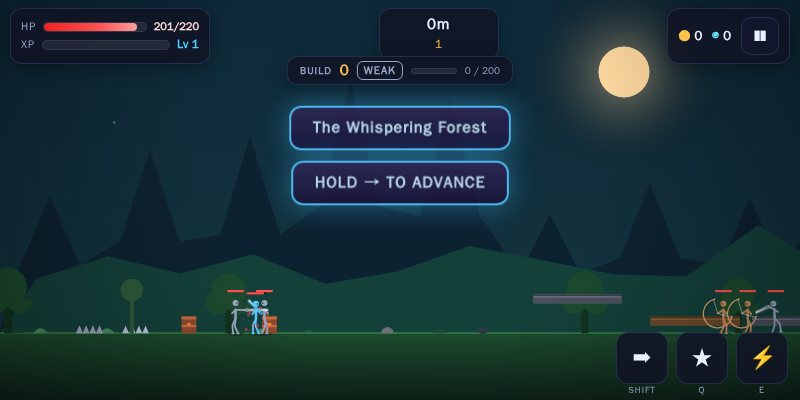
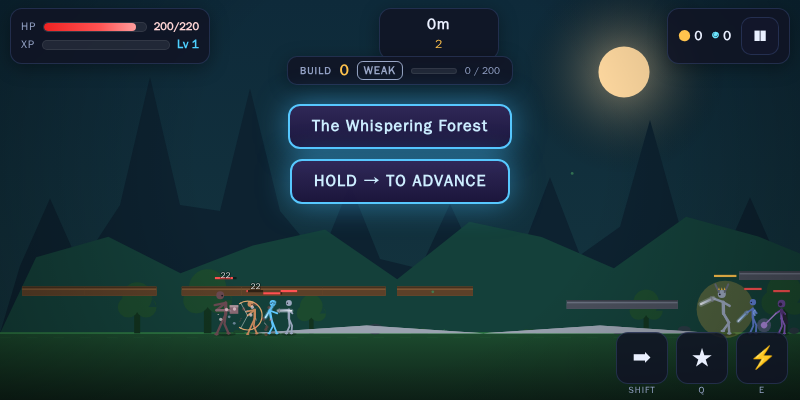
feat: auto-attack when enemies are in melee range
- Player now auto-fires light attacks whenever a living enemy is within
  weapon range in front (reusing existing startAttack/canAct rules)
- Manual heavy/light input still takes priority over auto-attack
- Added Auto Attack toggle in settings (default on), persisted in save
- Bumped cache version to v7

diff --git a/js/ui.js b/js/ui.js
@@ -425,6 +425,7 @@
         <div class="setting-row"><label>Music</label><button id="set-mus" class="toggle ${s.musicOn ? "on" : ""}"></button></div>
         <div class="setting-row"><label>Music Volume</label><input id="set-musvol" type="range" min="0" max="1" step="0.05" value="${s.musicVol}"></div>
         <div class="setting-row"><label>Screen Shake</label><button id="set-shake" class="toggle ${s.screenShake ? "on" : ""}"></button></div>
+        <div class="setting-row"><label>Auto Attack</label><button id="set-autoatk" class="toggle ${s.autoAttack ? "on" : ""}"></button></div>
         <div class="setting-row"><label>Damage Numbers</label><button id="set-dmg" class="toggle ${s.damageNumbers ? "on" : ""}"></button></div>
         <div class="setting-row"><label>Reduced Effects (perf)</label><button id="set-lowfx" class="toggle ${s.reduceEffects ? "on" : ""}"></button></div>
         <div class="setting-row"><label>Controls</label><button class="big-btn small" id="set-controls">SHOW CONTROLS</button></div>
@@ -442,6 +443,7 @@
         $("set-mus").addEventListener("click", (e) => { save.settings.musicOn = !save.settings.musicOn; e.target.classList.toggle("on", save.settings.musicOn); SL.Save.setSettings(save.settings); applyAudio(); });
         $("set-musvol").addEventListener("input", (e) => { save.settings.musicVol = parseFloat(e.target.value); SL.Save.setSettings(save.settings); applyAudio(); });
         $("set-shake").addEventListener("click", (e) => { save.settings.screenShake = !save.settings.screenShake; e.target.classList.toggle("on", save.settings.screenShake); SL.Save.setSettings(save.settings); });
+        $("set-autoatk").addEventListener("click", (e) => { save.settings.autoAttack = !save.settings.autoAttack; e.target.classList.toggle("on", save.settings.autoAttack); SL.Save.setSettings(save.settings); SL.Audio.play("click"); });
         $("set-dmg").addEventListener("click", (e) => { save.settings.damageNumbers = !save.settings.damageNumbers; e.target.classList.toggle("on", save.settings.damageNumbers); SL.Save.setSettings(save.settings); });
         $("set-lowfx").addEventListener("click", (e) => { save.settings.reduceEffects = !save.settings.reduceEffects; e.target.classList.toggle("on", save.settings.reduceEffects); SL.Save.setSettings(save.settings); });
         $("set-controls").addEventListener("click", () => { SL.Audio.play("click"); this.showControlsModal(); });

diff --git a/index.html b/index.html
@@ -10,7 +10,7 @@
 <meta http-equiv="Pragma" content="no-cache">
 <meta http-equiv="Expires" content="0">
 <title>Stickman: Warrior's Legacy</title>
-<link rel="stylesheet" href="css/style.css?v=6">
+<link rel="stylesheet" href="css/style.css?v=7">
 </head>
 <body>
 <div id="game-root">
@@ -164,23 +164,23 @@
 
 </div>
 
-<script src="js/utils.js?v=6"></script>
-<script src="js/audio.js?v=6"></script>
-<script src="js/save.js?v=6"></script>
-<script src="js/input.js?v=6"></script>
-<script src="js/particles.js?v=6"></script>
-<script src="js/upgrades.js?v=6"></script>
-<script src="js/buildpower.js?v=6"></script>
-<script src="js/progression.js?v=6"></script>
-<script src="js/entities.js?v=6"></script>
-<script src="js/bosses.js?v=6"></script>
-<script src="js/levels.js?v=6"></script>
-<script src="js/worldgen.js?v=6"></script>
-<script src="js/aidirector.js?v=6"></script>
-<script src="js/leaderboard.js?v=6"></script>
-<script src="js/challenges.js?v=6"></script>
-<script src="js/ui.js?v=6"></script>
-<script src="js/game.js?v=6"></script>
-<script src="js/main.js?v=6"></script>
+<script src="js/utils.js?v=7"></script>
+<script src="js/audio.js?v=7"></script>
+<script src="js/save.js?v=7"></script>
+<script src="js/input.js?v=7"></script>
+<script src="js/particles.js?v=7"></script>
+<script src="js/upgrades.js?v=7"></script>
+<script src="js/buildpower.js?v=7"></script>
+<script src="js/progression.js?v=7"></script>
+<script src="js/entities.js?v=7"></script>
+<script src="js/bosses.js?v=7"></script>
+<script src="js/levels.js?v=7"></script>
+<script src="js/worldgen.js?v=7"></script>
+<script src="js/aidirector.js?v=7"></script>
+<script src="js/leaderboard.js?v=7"></script>
+<script src="js/challenges.js?v=7"></script>
+<script src="js/ui.js?v=7"></script>
+<script src="js/game.js?v=7"></script>
+<script src="js/main.js?v=7"></script>
 </body>
 </html>

diff --git a/js/entities.js b/js/entities.js
@@ -601,6 +601,9 @@
             this.startAttack("light");
           }
           this.attackHoldT = 0.32;
+        } else if (SL.Save.get().settings.autoAttack && this.onGround && this._meleeTargetInRange()) {
+          this.startAttack("light");
+          this.attackHoldT = 0.32;
         }
       } else if (this.attack && this.attack.t > this.attack.dur * 0.55 && this.attackChain < 2) {
         if (inp.wasPressed("attack") && this.onGround) {
@@ -692,6 +695,23 @@
         }
       }
       return out;
+    }
+
+    /* true when a living enemy is within light-attack range in front */
+    _meleeTargetInRange() {
+      const st = this.stats;
+      const range = 96 * st.rangeMul;
+      const f = this.facing;
+      for (const e of this.game.enemies) {
+        if (e.dead) continue;
+        const dx = e.x - this.x;
+        if (dx * f < -24) continue;
+        const dy = Math.abs((e.y - 30 * e.scale) - (this.y - 34));
+        if (dy > 66) continue;
+        const dist = Math.hypot(Math.max(0, dx * f), dy);
+        if (dist < range + (e.w || 20) * 0.5) return true;
+      }
+      return false;
     }
 
     landSlam() {

diff --git a/js/save.js b/js/save.js
@@ -31,6 +31,7 @@
       settings: {
         sfxVol: 0.85, musicVol: 0.4, musicOn: true, soundOn: true,
         screenShake: true, damageNumbers: true, reduceEffects: false, quality: "auto",
+        autoAttack: true,
       },
       achievements: {},       // id -> unlockedAt
       challengeProgress: {},  // challenge id -> {value, claimed}
